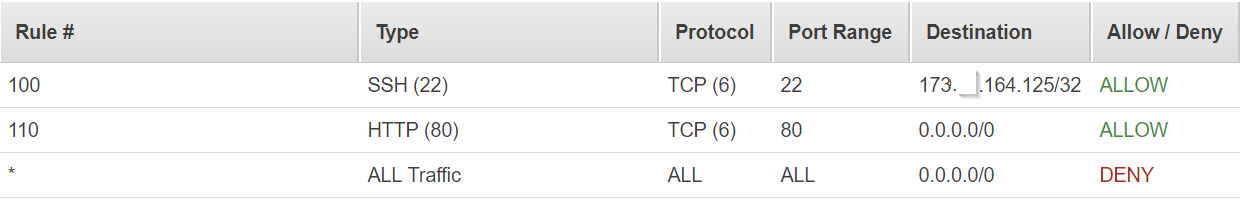
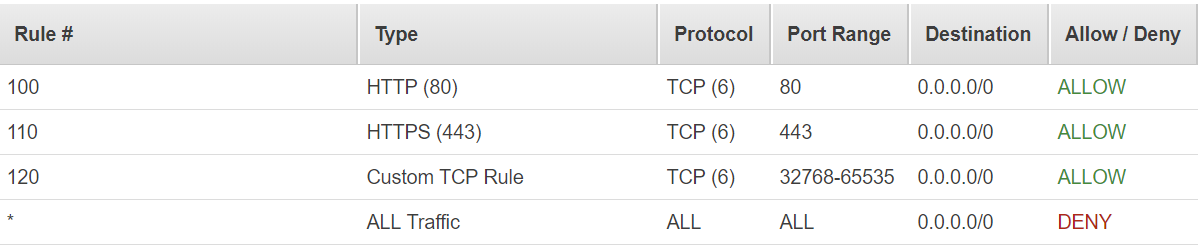
rebuilding site Thu Mar 22 17:47:52 EDT 2018

diff --git a/post/aws_vpc/index.html b/post/aws_vpc/index.html
@@ -192,11 +192,11 @@ Select Edit, and Add another rule.  Remember I said these rules are executed in 
 <p>Protip: if you have curl installed you can use <code>curl ipinfo.io</code> to pull your public IP, otherwise <a href="https://whatsmyip.com/">Whats my ip</a>.</p>
 
 <p>Our NACL wants your IP in CIDR notation, meaning that we need to toss a <code>/32</code> on the end of our IP address to clarify that we only want to use our specific IP, not a range of IPs.<br>
-While we&rsquo;re at it let&rsquo;s add Rule 110 to open up port 80 to the world.</p>
+While we&rsquo;re at it let&rsquo;s add Rule 110 to open up port 80 to the world, rule 120 to open up HTTPS to the world, and 130 to allow ephemeral traffic back in - this is for installing packages from our instances as the traffic doesn&rsquo;t come back in over port 443.</p>
 
 <p><img src="/img/VPC_NACL_inbound.png" alt="Network ACL Inbound" /></p>
 
-<p>Since NACLs are stateless, let&rsquo;s remember to update the outbound rules to allow the outbound traffic.</p>
+<p>Since NACLs are stateless, let&rsquo;s remember to update the outbound rules to allow the outbound traffic.  Also, keep in mind that outbound traffic doesn&rsquo;t always travel over the same port as inbound, it will also travel over ephemeral ports from 1024-65525.</p>
 
 <p><img src="/img/VPC_NACL_outbound.png" alt="Network ACL Outbound" /></p>
 
